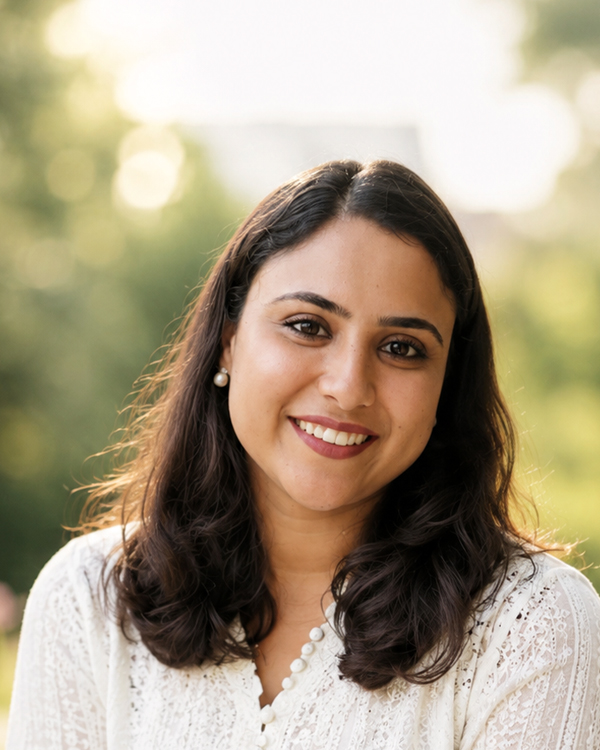
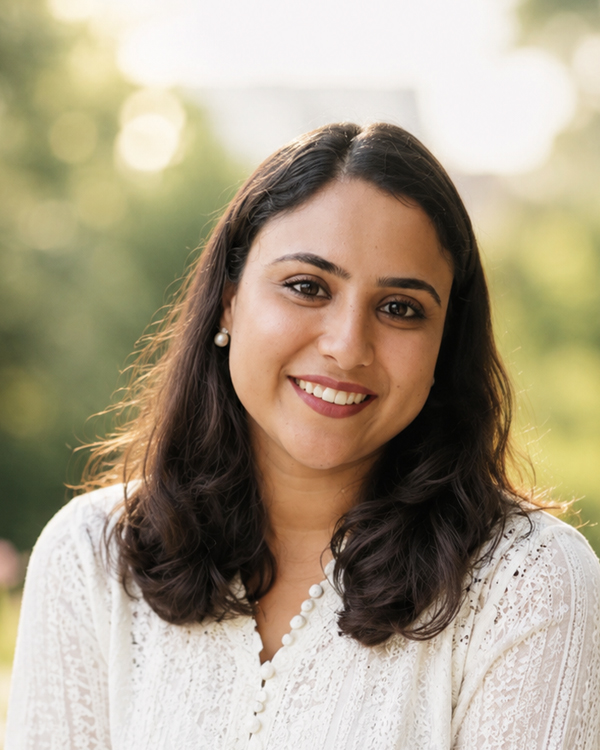
uo

diff --git a/lib/constants.ts b/lib/constants.ts
@@ -89,7 +89,7 @@ export const STAY_ACCOUNTABLE: Plan = {
 };
 
 export const MYSTERY_OPTIONS = [
-  { id: 'weight', title: 'Weight Management', desc: 'Sustainable loss or gain without crash diets.', icon: 'scale' },
+  { id: 'weight', title: 'Weight Management', desc: 'Sustainable weight management with muscle support — no crash diets, no rebound.', icon: 'scale' },
   { id: 'pcos', title: 'PCOS / Hormonal Health', desc: 'Balance hormones through targeted nutrition.', icon: 'hormone' },
   { id: 'diabetes', title: 'Diabetes Nutrition', desc: 'Stable blood sugar through real food.', icon: 'pulse' },
   { id: 'energy', title: 'Low Energy & Lifestyle', desc: 'Rebuild steady energy across the day.', icon: 'bolt' },
@@ -97,13 +97,22 @@ export const MYSTERY_OPTIONS = [
   { id: 'general', title: 'General Wellness', desc: 'Feel better in your body every day.', icon: 'heart' },
 ] as const;
 
-export const MYSTERY_STRATEGIES: Record<string, { title: string; desc: string }> = {
-  weight: { title: 'A Weight Strategy Built Around Your Routine', desc: 'No crash diets, no impossible restrictions — just a structured, sustainable plan that fits your real life.' },
-  pcos: { title: 'Hormonal Balance Through Targeted Nutrition', desc: 'Sakshi maps the patterns affecting your hormones and builds a nutrition rhythm that supports them.' },
-  diabetes: { title: 'Stable Blood Sugar Through Real Food', desc: 'A clear, food-first approach to managing diabetes — practical, measurable, and sustainable.' },
-  energy: { title: 'Rebuild Steady Energy Across Your Day', desc: 'We identify what\'s draining you and rebuild your nutrition rhythm to support consistent energy.' },
-  sports: { title: 'Performance Fuel For Serious Training', desc: 'Targeted nutrition to support your training load, recovery and performance goals.' },
-  general: { title: 'Everyday Wellness, Built Around You', desc: 'Feel better in your body — a personalized plan that supports your overall health and longevity.' },
+export const MYSTERY_STRATEGIES: Record<string, { title: string; desc: string[]; image?: string }> = {
+  weight: {
+    title: 'Weight Management',
+    image: 'https://images.unsplash.com/photo-1541534741688-6078c6bfb5c5?auto=format&fit=crop&w=1200&q=80',
+    desc: [
+      'Sustainable weight management with muscle support — no crash diets, no rebound.',
+      'Weight loss, healthy weight gain & breaking plateaus',
+      'Eating patterns & appetite signals',
+      'Metabolism, sleep & stress interplay',
+    ],
+  },
+  pcos: { title: 'Hormonal Balance Through Targeted Nutrition', desc: ['Sakshi maps the patterns affecting your hormones and builds a nutrition rhythm that supports them.'] },
+  diabetes: { title: 'Stable Blood Sugar Through Real Food', desc: ['A clear, food-first approach to managing diabetes — practical, measurable, and sustainable.'] },
+  energy: { title: 'Rebuild Steady Energy Across Your Day', desc: ['We identify what\'s draining you and rebuild your nutrition rhythm to support consistent energy.'] },
+  sports: { title: 'Performance Fuel For Serious Training', desc: ['Targeted nutrition to support your training load, recovery and performance goals.'] },
+  general: { title: 'Everyday Wellness, Built Around You', desc: ['Feel better in your body — a personalized plan that supports your overall health and longevity.'] },
 };
 
 export const TESTIMONIALS = [

diff --git a/components/HealthMystery.tsx b/components/HealthMystery.tsx
@@ -10,7 +10,6 @@ const icons = {
 
 export default function HealthMystery() {
   const [active, setActive] = useState<string | null>(null);
-  const [visible, setVisible] = useState(false);
 
   useEffect(() => {
     const obs = new IntersectionObserver((entries) => {
@@ -21,8 +20,7 @@ export default function HealthMystery() {
   }, []);
 
   const handleSelect = (id: string) => {
-    setActive((prev) => (prev === id ? null : id));
-    setVisible(!!active && active !== id ? false : !active);
+    setActive((prev) => (prev === id ? id : id));
   };
 
   const strategy = active ? MYSTERY_STRATEGIES[active] : null;
@@ -57,15 +55,40 @@ export default function HealthMystery() {
           })}
         </div>
 
-        <div className={`max-w-3xl mx-auto mt-12 lg:mt-16 transition-all duration-700 ease-out ${active ? 'opacity-100 max-h-[800px]' : 'opacity-0 max-h-0 overflow-hidden'}`}>
+        <div className={`max-w-3xl mx-auto mt-12 lg:mt-16 transition-all duration-700 ease-out ${active ? 'opacity-100 max-h-[1200px]' : 'hidden'}`}>
           <div className="relative">
             <svg className="absolute -top-12 left-1/2 -translate-x-1/2 w-64 h-12 pointer-events-none" viewBox="0 0 240 48">
               <path d="M10 5 Q 120 -5 230 5" stroke="#7E906F" strokeWidth="1.5" fill="none" strokeDasharray="4 4" opacity="0.5" />
             </svg>
             <div className="rounded-3xl bg-forest text-warm-white p-8 lg:p-10 text-center shadow-2xl">
               <div className="text-[11px] tracking-[0.25em] uppercase text-sage-light font-semibold mb-3">Your Personalized Nutrition Strategy</div>
+
+              {strategy?.image && (
+                <div className="mb-5 overflow-hidden rounded-2xl border border-sage-light/30">
+                  <img
+                    src={strategy.image}
+                    alt={strategy.title}
+                    className="h-52 w-full object-cover object-center"
+                  />
+                </div>
+              )}
+
               <h3 className="font-display text-2xl lg:text-3xl leading-tight mb-4">{strategy?.title}</h3>
-              <p className="text-sage-light/80 text-sm mb-6 max-w-lg mx-auto">{strategy?.desc}</p>
+
+              <div className="space-y-2 text-sage-light/90 text-sm max-w-lg mx-auto mb-6 text-left">
+                {strategy?.title === 'Weight Management' ? (
+                  <>
+                    <p className="leading-relaxed font-semibold text-warm-white">• Weight loss, healthy weight gain & breaking plateaus</p>
+                    <p className="leading-relaxed">• Eating patterns & appetite signals</p>
+                    <p className="leading-relaxed">• Metabolism, sleep & stress interplay</p>
+                  </>
+                ) : (
+                  strategy?.desc.map((line) => (
+                    <p key={line} className="leading-relaxed">{line}</p>
+                  ))
+                )}
+              </div>
+
               <Link href="/#plans" className="inline-flex items-center gap-2.5 px-7 py-3.5 rounded-full text-[15px] bg-sage-light text-forest hover:bg-warm-white transition-all">
                 <span>Find My Plan</span>
                 <ArrowRight size={16} strokeWidth={2.5} />
